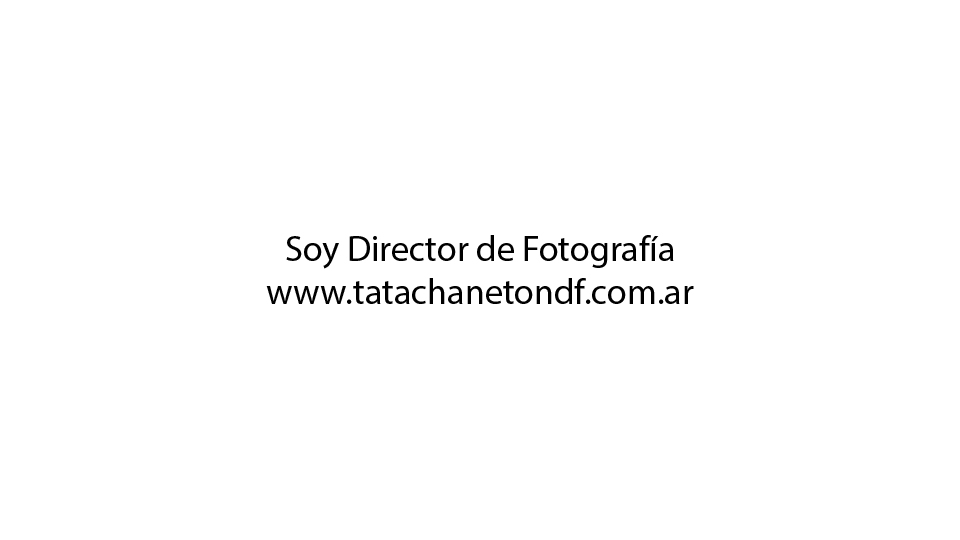
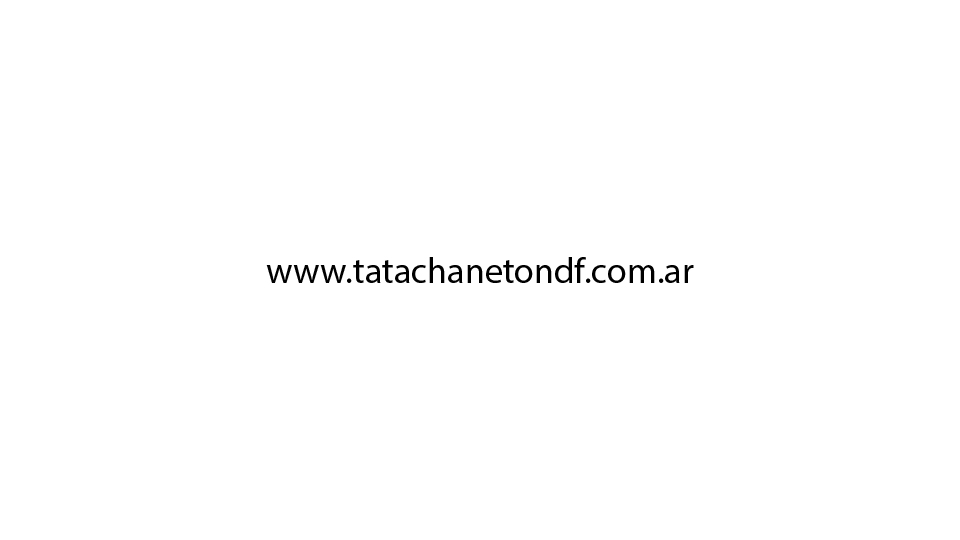
background feature and others

Changed region(s): [[0.2812, 0.4444, 0.7188, 0.563]]

diff --git a/script.js b/script.js
@@ -22,6 +22,7 @@ function shuffle(array) {
 const symbolEl = document.getElementById("symbol");
 const modal = document.getElementById("modal");
 const modalImg = document.getElementById("modalImg");
+const background = document.getElementById("background");
 
 function playSymbol() {
   symbolEl.textContent = symbols[index];
@@ -86,17 +87,16 @@ modal.addEventListener("click", () => {
   closeModal();
  
 });
+background.addEventListener("click", () => {
+  speed = speed * 2;
+  if (speed > 8000) speed = 8000;
+
+  startLoop();
+});
+
+
+
 
 // Inicial
 startLoop();
 
-// let started = false;
-
-// function startExperience() {
-//   if (!started) {
-//     started = true;
-//     startLoop();
-//   }
-// }
-
-// document.addEventListener("click", startExperience, { once: true });

diff --git a/styles.css b/styles.css
@@ -8,10 +8,21 @@ body {
   font-family: sans-serif;
 }
 
+#background {
+  position: fixed;
+  top: 0;
+  left: 0;
+  width: 100%;
+  height: 100%;
+  background-color: white;
+  z-index: 0;
+}
+
 #symbol {
   font-size: 10vh;
   cursor: pointer;
   user-select: none;
+  z-index: 1;
 }
 
 #modal {
@@ -26,6 +37,7 @@ body {
   align-items: center;
   visibility: hidden;
   transform: translate(-50%, -50%); 
+  z-index: 2;
 }
 
 #modal img {

diff --git a/index.html b/index.html
@@ -8,6 +8,8 @@
 </head>
 <body>
 
+<div id="background"></div>
+
 <div id="symbol"></div>
 
 <div id="modal">